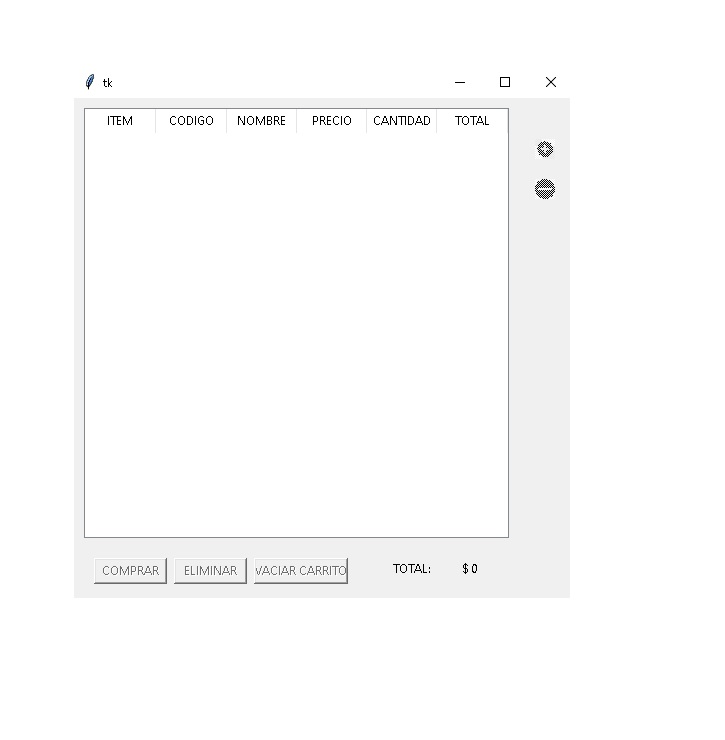
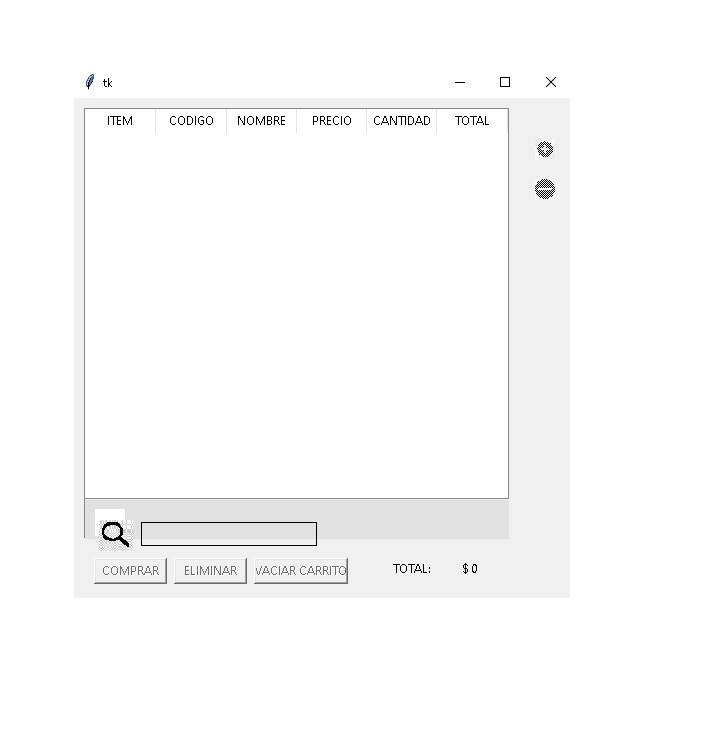
110423 carrito en proceso

Changed region(s): [[0.091, 0.6527, 0.7283, 0.7459]]

diff --git a/interfaces_graficas_v2.py b/interfaces_graficas_v2.py
@@ -17,6 +17,7 @@ import matplotlib.pyplot as plt
 import pandas as pd
 import numpy
 import locale
+import re
 	
 # Asignamos la hora del sistema en hora local
 locale.setlocale(locale.LC_TIME, 'es_ES.utf8')
@@ -117,7 +118,6 @@ class Validaciones:
 			return False
 
 	def codigoServicio(self, codigo):
-
 		if codigo=="" or codigo.isdigit() and len(codigo)<11:
 			return True
 
@@ -195,7 +195,7 @@ class InterfazPrincipal:
 
 		if self.menuOperacion.get()=="COMPRA":
 
-			# *DESACTIVAR EL MODIFICAR, FINALIZAR Y VACIAR CARRITO cuando el carrito esté vacío
+			# *BLOQUEAR botones ~VER CARRITO, FINALIZAR COMPRA, VACIAR CARRITO~ cuando no haya articulos que comprar
 			# *BOTON para ver e imprimir facturas
 			# *CAJA para ingresar con cuanto paga
 
@@ -273,11 +273,13 @@ class InterfazPrincipal:
 					"""
 					arbolLista.delete(*arbolLista.get_children())
 					if tipo=="CODIGO":
-						listado.sort_values(by="CODIGO", ascending=True, inplace=True)
+						listado.sort_values(by="CODIGO", inplace=True)
 					elif tipo=="ARTICULO":
 						listado.sort_values(by="ARTICULO", ascending=True, inplace=True)
 					elif tipo=="MARCA":
 						listado.sort_values(by="MARCA", ascending=True, inplace=True)
+					elif tipo=="STOCK":
+						listado.sort_values(by="STOCK", ascending=True, inplace=True)
 
 					for llave, valor in listado.iterrows():
 						arbolLista.insert("", "end", iid=llave, values=valor.tolist())
@@ -285,24 +287,25 @@ class InterfazPrincipal:
 
 				cursor = kwargs["cursor"]
 				conexion = kwargs["conexion"]
-				cursor.execute("SELECT CODIGO, ARTICULO, MARCA FROM INVENTARIO")
-				listado = pd.DataFrame(data=cursor.fetchall(), columns=("CODIGO", "ARTICULO", "MARCA"))
+				cursor.execute("SELECT CODIGO, ARTICULO, MARCA, STOCK FROM INVENTARIO")
+				listado = pd.DataFrame(data=cursor.fetchall(), columns=("CODIGO", "ARTICULO", "MARCA", "STOCK"))
 				# listado.sort_values(by="CODIGO", ascending=True, inplace=True)
-
-				ventana = Toplevel(self.raiz)
+				ventana = Toplevel(self.raiz)		
 				ventana.resizable(False, False)
 				ventana.grab_set()
-				arbolLista = ttk.Treeview(ventana, columns=["CODIGO", "ARTICULO", "MARCA"], selectmode = NONE)
+				arbolLista = ttk.Treeview(ventana, columns=["CODIGO", "ARTICULO", "MARCA", "STOCK"], selectmode = NONE)
 				arbolLista.place(relwidth=1, relheight=1)
 
 				arbolLista.column("#0", width=0, stretch=NO)
 				arbolLista.column("CODIGO", width=7)
 				arbolLista.column("ARTICULO", width=10)
 				arbolLista.column("MARCA", width=10)
+				arbolLista.column("STOCK", width=6)
 
 				arbolLista.heading("CODIGO", text = "CODIGO", command= lambda : organizar("CODIGO"))
 				arbolLista.heading("ARTICULO", text = "ARTICULO", command= lambda : organizar("ARTICULO"))
 				arbolLista.heading("MARCA", text = "MARCA", command= lambda : organizar("MARCA"))
+				arbolLista.heading("STOCK", text = "STOCK", command= lambda : organizar("STOCK"))
 
 
 				for llave, valor in listado.iterrows():
@@ -315,6 +318,7 @@ class InterfazPrincipal:
 			# comentario = StringVar()
 			self.boolAgregarASaldo = BooleanVar()
 			self.boolClienteNuevo = BooleanVar()
+			self.cantidadListaCompra = StringVar()
 
 			# Boton lista códigos
 			lista = Image.open("iconos/lista.png")
@@ -342,7 +346,7 @@ class InterfazPrincipal:
 
 			self.cantidadListaCompra = Label(self.frameOpciones, text = 0, borderwidth=0, font=7)
 			self.cantidadListaCompra.place(relx=0.80, rely=0.02)
-			# self.cantidadListaCompra.bind("")
+			# self.cantidadListaCompra.bind("b")
 
 			self.checkIncluirSaldo = Checkbutton(self.frameOpciones, text = "INCLUIR A SALDO", variable = self.boolAgregarASaldo, onvalue = True, offvalue = False, command=lambda : check("SALDO"))
 			self.checkIncluirSaldo.place(relx=0.05, rely=0.15)
@@ -1031,12 +1035,13 @@ class InterfazPrincipal:
 		"""
 		INTERFAZ para visualizar y modificar el carrito de compra.
 		"""
-
-		# >Al posarse sobre el boton aumentar cuando no haya stock me salga una advertencia y se quite cuando ya no se pose sobre el boton
+		# ?Como obtengo el color de fondo y pintar el aviso de ese color
 		# ?***Cuando selecciono otra acción general, la lista permanece intacta (¿? Analizar si es bueno o no)
-		# ?Cambiar el texto por íconos (que sugieran la acción) en los botones 
+		# ?*Mejora de diseños
+		# ?*Cambiar el texto por íconos (que sugieran la acción) en los botones 
 
-		# *Mejora de diseños
+		# *cada que escriba una letra buscar coincidencia en el inventario (por medio de treevista)
+
 	
 
 		def seleccionArticulo(*args, **kwargs):
@@ -1192,11 +1197,21 @@ class InterfazPrincipal:
 			messagebox.showinfo(title = "COMPRA", message = "Compra exitosa por valor de {}".format(lblTotal["text"]), parent=treeVista)
 			interfazArticulos.destroy()
 
-	
+		def validarStock(nombre):
+
+			...
+			print("buscando coincidencia con ésta busquedad: {}".format(nombre))
+			if nombre in inventario_total.iloc[:, 0].tolist():
+				print(nombre)
+			return True
+
+		
 
 		self = args[0]
 		conexion = kwargs["conexion"]
 		cursor = kwargs["cursor"]
+
+		busquedad = StringVar()
 
 		interfazArticulos = Toplevel()
 		interfazArticulos.bind("<Escape>", lambda event : salir(event))
@@ -1206,7 +1221,11 @@ class InterfazPrincipal:
 		interfazArticulos.geometry("500x500")
 
 		treeVista = ttk.Treeview(interfazArticulos, columns = ("ITEM", "CODIGO", "NOMBRE", "PRECIO", "CANTIDAD", "TOTAL"))
-		treeVista.place(relx=0.02, relwidth=0.85, rely=0.02, relheight= 0.86)
+		treeVista.place(relx=0.02, relwidth=0.85, rely=0.02, relheight= 0.8)
+
+		entBusqueda = Entry(interfazArticulos, width=30, textvariable = busquedad)
+		entBusqueda.place(relx=0.17, rely=0.85)
+		entBusqueda.config(validate="key", validatecommand=(entBusqueda.register(validarStock), "%P"))
 
 		treeVista.bind("<<TreeviewSelect>>", lambda event:seleccionArticulo(event))
 
@@ -1222,7 +1241,9 @@ class InterfazPrincipal:
 		menos.thumbnail((20, 20))
 		icon_menos = ImageTk.PhotoImage(menos)
 
-
+		lupa = Image.open("iconos/lupa.png")
+		lupa.thumbnail((20, 20))
+		icon_lupa = ImageTk.PhotoImage(lupa)
 
 		# BOTONES Y LABEL'S
 
@@ -1230,6 +1251,9 @@ class InterfazPrincipal:
 		lblAumentar = Label(interfazArticulos, text="NO HAY\n STOCK", fg="gray")
 		lblAumentar.place(relx= 0.88, rely=0.00)
 		
+		# iconLupa = Button(interfazArticulos, image=icon_lupa, borderwidth=0)
+		iconLupa = Button(interfazArticulos, text="icono de\n lupa", borderwidth=0)
+		iconLupa.place(relx=0.04, rely=0.85)
 
 		btnAumentar = Button(interfazArticulos, image=icon_mas, borderwidth=0,command=lambda : modificarCantidad("MAS"))
 		btnAumentar.place(relx=0.92, rely=0.08)
@@ -1244,11 +1268,11 @@ class InterfazPrincipal:
 		btnDisminuir = Button(interfazArticulos, image = icon_menos, borderwidth=0, command= lambda : modificarCantidad("MENOS"))
 		btnDisminuir.place(relx=0.92, rely=0.16)
 
-		btnEliminarSeleccion = Button(interfazArticulos, text = "ELIMINAR", width= 9, command= eliminarArticulo)
-		btnEliminarSeleccion.place(relx=0.20, rely= 0.92)
-
 		btnComprarCarrito = Button(interfazArticulos, text = "COMPRAR", width= 9, command = comprarInterfaz)
 		btnComprarCarrito.place(relx = 0.04, rely = 0.92)
+
+		btnEliminarSeleccion = Button(interfazArticulos, text = "ELIMINAR", width= 9, command= eliminarArticulo)
+		btnEliminarSeleccion.place(relx=0.20, rely= 0.92)
 
 		btnVaciarCarrito = Button(interfazArticulos, text = "VACIAR CARRITO", width = 12, command = vaciarCarrito)
 		btnVaciarCarrito.place(relx= 0.36, rely = 0.92)
@@ -1294,6 +1318,12 @@ class InterfazPrincipal:
 				if llave == i:
 					validacion.update({i : [inventario[i], valor["CANTIDAD_COMPRA"]]})
 				continue
+
+		inventario_total = pd.DataFrame(columns=("ARTICULO", "MARCA", "STOCK"))
+		cursor.execute("SELECT CODIGO, ARTICULO, MARCA, STOCK FROM INVENTARIO")
+		for i in cursor.fetchall():
+			inventario_total = pd.concat([inventario_total, pd.Series(data = i[1:], index=["ARTICULO", "MARCA", "STOCK"], name=i[0]).to_frame().T], axis=0)
+		print(inventario_total)
 
 
 	# def generarCodigoCliente(self,cursor):
@@ -1717,7 +1747,7 @@ class InterfazAdministrativa(Tk):
 
 
 				cursor.execute("""
-					INSERT INTO INVENTARIO (CODIGO, ARTICULO, MARCA, CANTIDAD, PRECIO, COSTO, COMENTARIO)
+					INSERT INTO INVENTARIO (CODIGO, ARTICULO, MARCA, STOCK, PRECIO, COSTO, COMENTARIO)
 					VALUES (?,?,?,?,?,?,?)
 					""",tuple(articuloNuevo.values))
 				messagebox.showinfo("ARTICULO_NUEVO","Articulo nuevo creado con éxito.")

diff --git a/pruebas.py b/pruebas.py
@@ -70,9 +70,26 @@ def tkinterTreeview():
 			arbol.insert(nombre[i], tkinter.END, text="prueba"+str(i), values = [0, 1, 2])
 		arbol.pack(fill=tkinter.BOTH, expand=True)
 
+	def validarNumero(elemento):
+		print(elemento)
+		if elemento=="" or elemento.isalpha() and len(elemento)<11:
+			# vbleControl.set(elemento)
+			etiqueta["text"] = elemento
+			return True
+		else:
+			return False
+
 	raiz = tkinter.Tk()
+	vbleControl = tkinter.StringVar()
+	etiqueta = tkinter.Label(raiz, text = "", bg = "red")
+	etiqueta.pack()
+	entrada = tkinter.Entry(raiz, width=30, bg="gray", textvariable=vbleControl)
+	entrada.config(validate = "key" ,validatecommand = (entrada.register(validarNumero), '%P'))
+	# entrada.config(validate = "key", validatecommand = (entrada.register(validarNumero), '%P'))
+	entrada.pack()
 	raiz.geometry("600x600")
 	arbol = ttk.Treeview(raiz, columns=("COLOR", "CANTIDAD", "PRECIO"), selectmode=tkinter.BROWSE)
+
 
 	arbol.tag_bind("seleccion_item", "<<TreeviewSelect>>", seleccion)
 
@@ -96,6 +113,17 @@ def tkinterTreeview():
 	tkinter.Button(raiz, width = 12, text= "REINICIAR TREEVIEW", command=borrarElementos).pack()
 
 	raiz.mainloop()
+
+# tkinterTreeview()
+# import re
+
+# texto = "Mi dirección de correo es ejemplo@email.com y otra dirección es otra@example.com"
+# patron = r'\w+@\w+\.\w+'
+
+# coincidencias = re.findall(patron, texto)
+# for coincidencia in coincidencias:
+#     print(coincidencia)
+print(["a","b","c","d","e"][1:])
 # tkinterTreeview()
 # import tkinter as tk
 # from tkinter import ttk
@@ -179,7 +207,7 @@ def pruebaDataFrame():
 		print("entramos en el condicional")
 	# print(df2.index)	
 
-pruebaDataFrame()
+# pruebaDataFrame()
 
 import tkinter as tk
 from PIL import Image, ImageTk
@@ -318,95 +346,6 @@ def funcionPrueba( var1, var2, *args, **kwargs):
 	return 
 
 
-# def anhadirArticulo():
-
-# 	def agregarArticulo(articulo, listaCompra):
-# 		if articulo["CANTIDAD_STOCK"] > 0:
-
-# 			indice_lista = [False,0]
-
-# 			for i in range(len(listaCompra)):
-# 				if listaCompra.loc[i,"CODIGO"] == articulo["CODIGO"]:
-# 					indice_lista[0] = True
-# 					indice_lista[1] = i
-# 					break
-
-
-# 			if indice_lista[0]:
-
-# 				if articulo["CANTIDAD_STOCK"] >= (listaCompra.loc[indice_lista[1],"CANTIDAD_COMPRA"]+1):
-					
-# 					articulo_modificar = listaCompra.iloc[indice_lista[1],:]
-# 					pd.options.mode.chained_assignment = None
-
-# 					articulo_modificar["CANTIDAD_COMPRA"] += 1
-
-# 					articulo_modificar["SUB_TOTAL"] = articulo_modificar["PRECIO_UNIT"] * articulo_modificar["CANTIDAD_COMPRA"]
-# 					articulo_modificar["UTILIDAD"] = int(articulo_modificar["UTILIDAD"]/(articulo_modificar["CANTIDAD_COMPRA"]-1)*articulo_modificar["CANTIDAD_COMPRA"])
-# 					listaCompra.loc[indice_lista[1], ["CODIGO", "NOMBRE", "PRECIO_UNIT", "CANTIDAD_COMPRA", "SUB_TOTAL", "UTILIDAD"]] = articulo_modificar
-# 					print(listaCompra)
-# 				else:
-# 					messagebox.showwarning(title = "STOCK AGOTADO", message = f"No hay unidades de {articulo[1].upper()} disponibles.")
-					
-			
-# 			else:
-
-# 				articulo = pandas.concat([articulo, pandas.Series(data = [articulo["PRECIO_UNIT"]], index = ["SUB_TOTAL"], name= articulo.name)])
-# 				articulo = articulo.reindex(["NOMBRE", "PRECIO_UNIT", "CANTIDAD_STOCK", "SUB_TOTAL", "UTILIDAD"])
-
-# 				articulo.index = ["NOMBRE", "PRECIO_UNIT", "CANTIDAD_COMPRA", "SUB_TOTAL", "UTILIDAD"] 
-
-# 				articulo.at["CANTIDAD_COMPRA"]=1
-
-# 				df_articulo = articulo.to_frame().T
-# 				df_articulo.index = [articulo.name]
-# 				listaCompra = pandas.concat([listaCompra, df_articulo], axis= 0, ignore_index=False)
-
-# 				cantidadListaCompra.config(text=len(listaCompra))
-# 		else:
-
-# 			messagebox.showwarning(title="PROBLEMA", message= f"No hay {articulo.loc['NOMBRE']} en stock.")
-
-# 		codigo.delete(0, "end")
-# 		return listaCompra
-
-# 	def enviarCodigo():
-# 		global listaCompra
-
-# 		cursor.execute("SELECT CODIGO, NOMBRE, PRECIO, CANTIDAD, UTILIDAD FROM INVENTARIO_PAPELERIA WHERE CODIGO = (?)", (vlrCodigo.get().upper(), ))
-
-# 		articulo = cursor.fetchone()
-# 		conexion.commit()
-# 		articulo = pandas.Series(data = articulo[1:], name = articulo[0], index = [ "NOMBRE", "PRECIO_UNIT", "CANTIDAD_STOCK", "UTILIDAD"])
-# 		if not isinstance(articulo.loc["NOMBRE"],numpy.float64): 
-# 			ok = agregarArticulo(articulo, listaCompra) 
-# 			listaCompra = ok
-# 			print(listaCompra)
-# 		else:
-# 			messagebox.showwarning(title= "ERROR", message= f"No existe artículo con ese código.")
-			
-# 	raiz = tkinter.Tk()
-# 	raiz.geometry("300x300")
-
-# 	conexion = sqlite3.connect("C:/Users/Victo/Documents/programacion/proyectos_propios/punto_local_ventas/BASE_DATOS_PRUEBA.db")
-# 	cursor = conexion.cursor()
-
-# 	vlrCodigo = tkinter.StringVar()
-
-# 	cantidadListaCompra = tkinter.Label(raiz)
-# 	cantidadListaCompra.pack()
-
-# 	listaCompra = pandas.DataFrame(columns = ["NOMBRE", "PRECIO_UNIT", "CANTIDAD_COMPRA", "SUB_TOTAL", "UTILIDAD"])
-
-
-# 	codigo = tkinter.Entry(raiz, width=19, textvariable = vlrCodigo)
-# 	codigo.pack()
-# 	btn = tkinter.Button(raiz, text = "enviar", command=enviarCodigo)
-# 	btn.pack()
-
-# 	raiz.mainloop()
-
-# anhadirArticulo()
 
 def extractoBancolombia():
 
